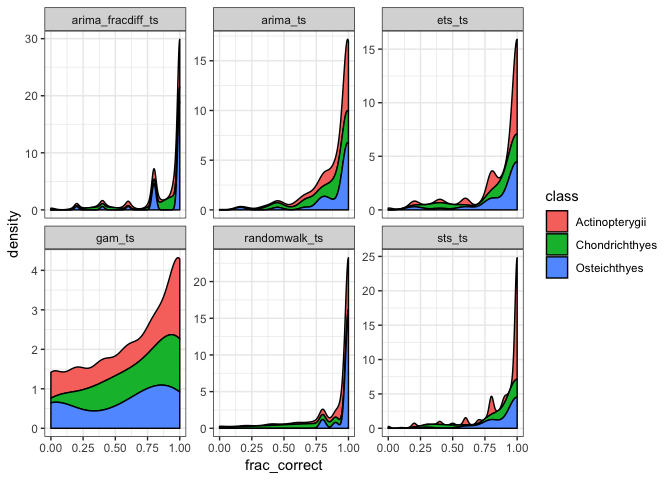
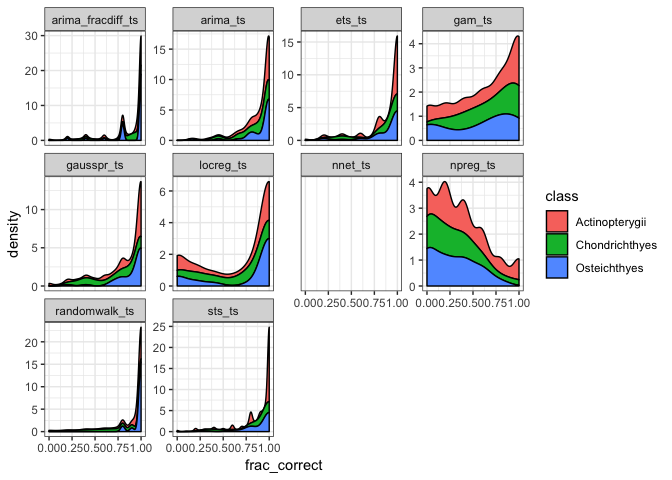
update forecasting report

diff --git a/reports/forecasting_comparison.md b/reports/forecasting_comparison.md
@@ -1,7 +1,7 @@
 Forecasting Comparison Report
 ================
 Hao Ye
-2019-03-22
+2019-04-26
 
 ## Read in the results
 
@@ -40,9 +40,15 @@ ls(pattern = results_pattern)
     ## [17] "results_autoarima"        "results_ets_1"           
     ## [19] "results_ets_2"            "results_ets_3"           
     ## [21] "results_ets_4"            "results_gam"             
-    ## [23] "results_names"            "results_pattern"         
-    ## [25] "results_randomwalk"       "results_randomwalk_drift"
-    ## [27] "results_sts_1"            "results_sts_2"
+    ## [23] "results_gausspr_1"        "results_gausspr_2"       
+    ## [25] "results_gausspr_3"        "results_gausspr_4"       
+    ## [27] "results_locreg"           "results_names"           
+    ## [29] "results_nnet_1_1"         "results_nnet_1_2"        
+    ## [31] "results_nnet_2_1"         "results_nnet_2_2"        
+    ## [33] "results_nnet_3_1"         "results_nnet_3_2"        
+    ## [35] "results_npreg"            "results_pattern"         
+    ## [37] "results_randomwalk"       "results_randomwalk_drift"
+    ## [39] "results_sts_1"            "results_sts_2"
 
 Just as in the “autoarima\_report”, we combine the outputs in each
 results object using `bind_rows()`, and wrap this all together using
@@ -55,7 +61,7 @@ full_results <- purrr::map_dfr(mget(results_names), bind_rows) %>%
 print(full_results)
 ```
 
-    ## # A tibble: 208 x 5
+    ## # A tibble: 304 x 5
     ##    results                 metadata   dataset             method  args     
     ##    <list>                  <list>     <chr>               <chr>   <list>   
     ##  1 <data.frame [775 × 5]>  <list [2]> salmon              arima_… <list [1…
@@ -68,7 +74,7 @@ print(full_results)
     ##  8 <data.frame [110 × 5]>  <list [2]> PugSound_Chinook    arima_… <list [1…
     ##  9 <data.frame [775 × 5]>  <list [2]> salmon              arima_… <list [1…
     ## 10 <data.frame [1,340 × 5… <list [2]> RAMlegacy_catch     arima_… <list [1…
-    ## # … with 198 more rows
+    ## # … with 294 more rows
 
 Again, we combine the `species_table` from within the `metadata` column,
 and join it with the results:
@@ -94,7 +100,7 @@ results <- full_results %>%
 print(results)
 ```
 
-    ## # A tibble: 162,624 x 10
+    ## # A tibble: 238,304 x 10
     ##    id    observed predicted lower_CI upper_CI dataset method args  species
     ##    <chr>    <dbl>     <dbl>    <dbl>    <dbl> <chr>   <chr>  <lis> <fct>  
     ##  1 62       10.5       9.66     8.34     11.0 salmon  arima… <lis… Chinook
@@ -107,7 +113,7 @@ print(results)
     ##  8 63        8.52      8.61     6.99     10.2 salmon  arima… <lis… Chinook
     ##  9 63        8.26      8.61     6.99     10.2 salmon  arima… <lis… Chinook
     ## 10 63        8.32      8.61     6.99     10.2 salmon  arima… <lis… Chinook
-    ## # … with 162,614 more rows, and 1 more variable: class <fct>
+    ## # … with 238,294 more rows, and 1 more variable: class <fct>
 
 ## Prepare for plotting
 
@@ -137,7 +143,7 @@ ggplot(data = to_plot,
     theme_bw()
 ```
 
-    ## Warning: Removed 245 rows containing non-finite values (stat_density).
+    ## Warning: Removed 1516 rows containing non-finite values (stat_density).
 
     ## Warning: Groups with fewer than two data points have been dropped.
     
@@ -148,7 +154,13 @@ ggplot(data = to_plot,
     ## Warning: Groups with fewer than two data points have been dropped.
     
     ## Warning: Groups with fewer than two data points have been dropped.
+    
+    ## Warning: Groups with fewer than two data points have been dropped.
+    
+    ## Warning: Groups with fewer than two data points have been dropped.
+    
+    ## Warning: Groups with fewer than two data points have been dropped.
 
-    ## Warning: Removed 5 rows containing missing values (position_stack).
+    ## Warning: Removed 8 rows containing missing values (position_stack).
 
 ![](forecasting_comparison_files/figure-gfm/unnamed-chunk-5-1.png)<!-- -->
